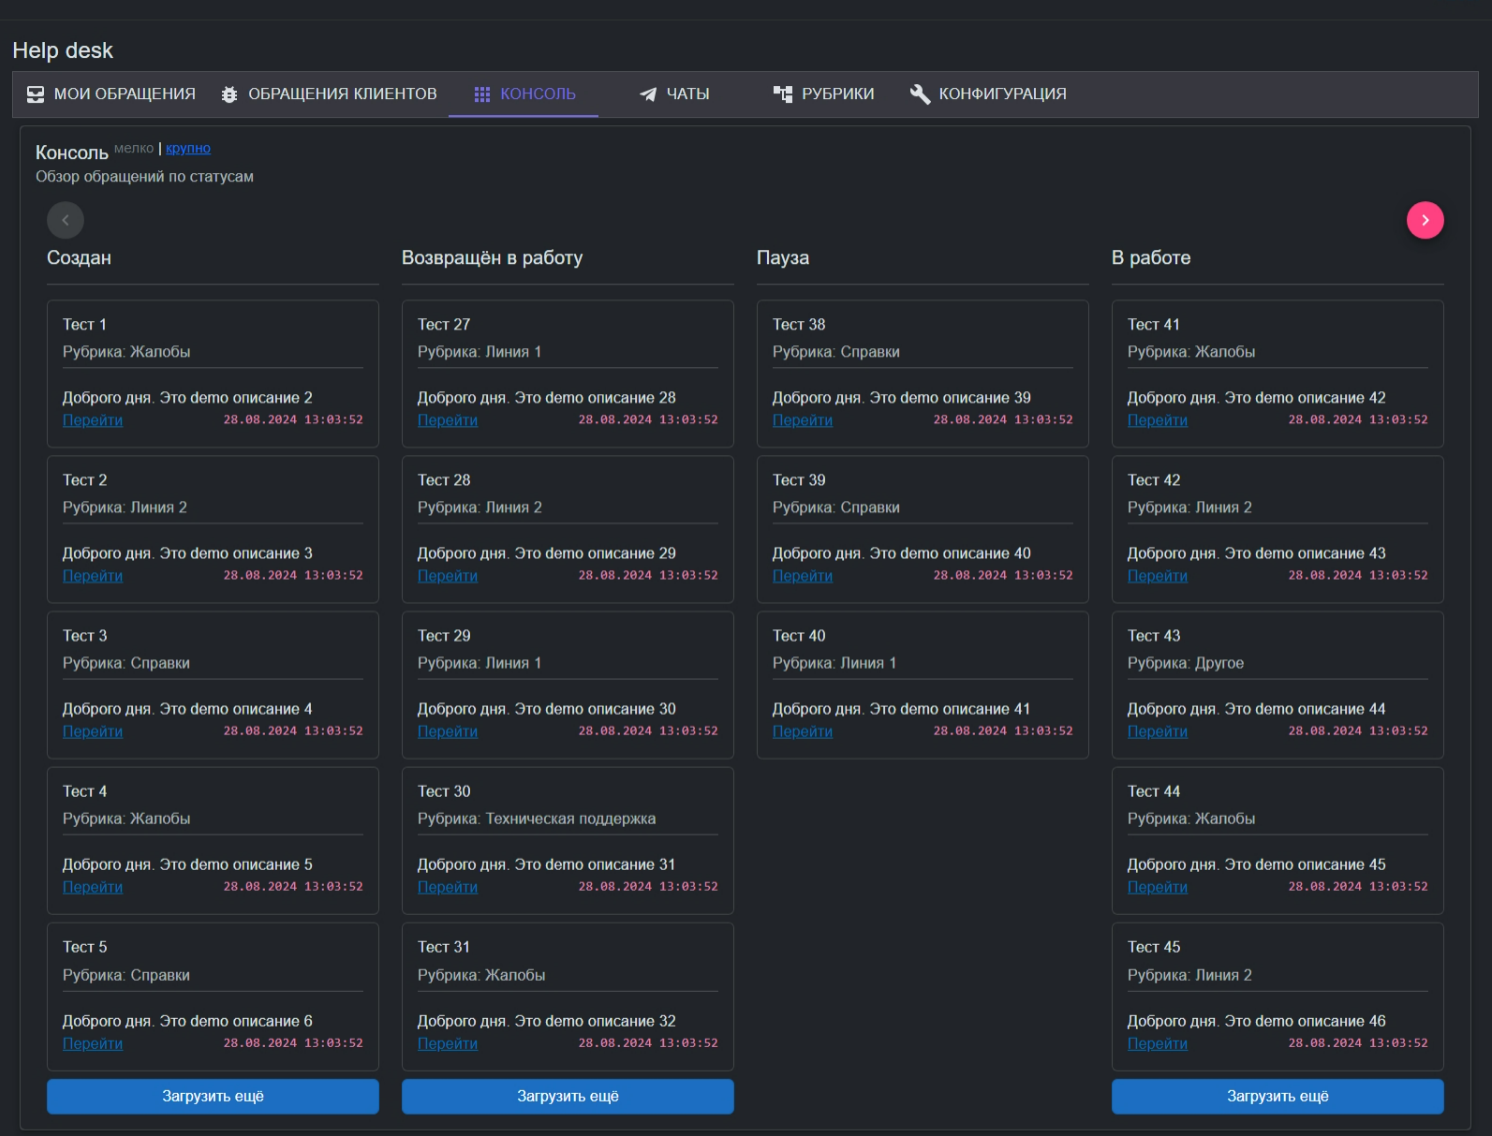
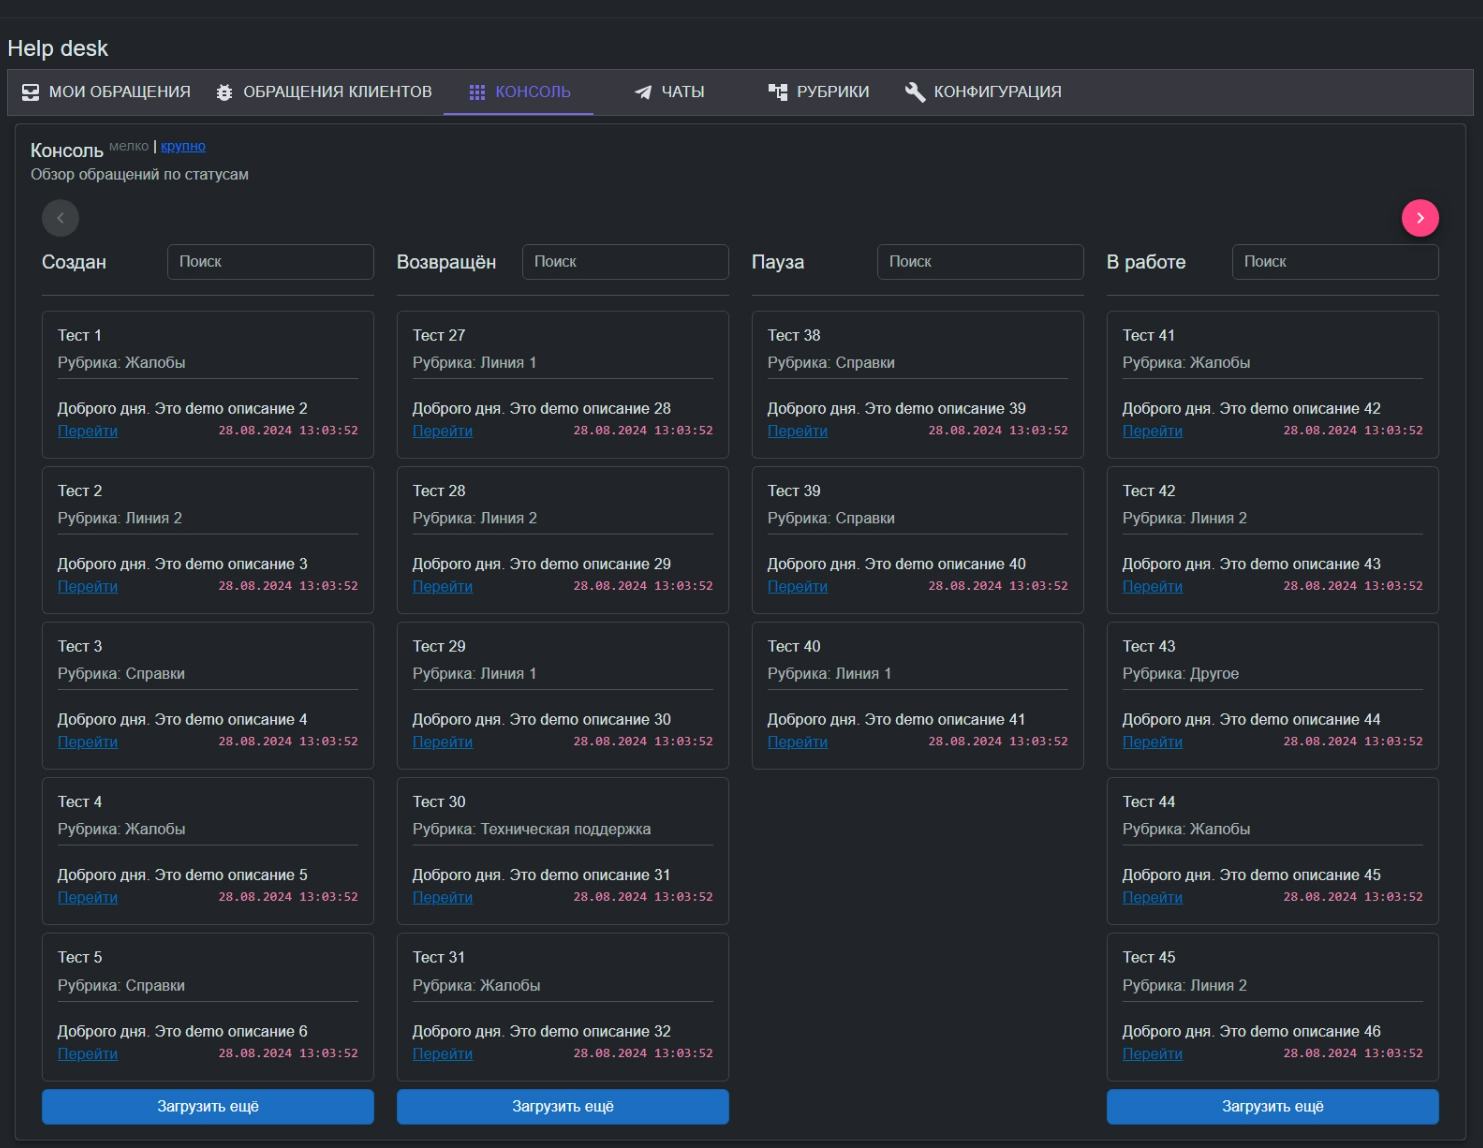
~

diff --git a/BlazorServerLib/Components/Helpdesk/console/ConsoleSegmentColumnComponent.razor.cs b/BlazorServerLib/Components/Helpdesk/console/ConsoleSegmentColumnComponent.razor.cs
@@ -1,0 +1,83 @@
+////////////////////////////////////////////////
+// © https://github.com/badhitman - @FakeGov 
+////////////////////////////////////////////////
+
+using Microsoft.AspNetCore.Components;
+using BlazorLib;
+using MudBlazor;
+using SharedLib;
+
+namespace BlazorWebLib.Components.Helpdesk.console;
+
+public partial class ConsoleSegmentColumnComponent : BlazorBusyComponentBaseModel
+{
+    [Inject]
+    IHelpdeskRemoteTransmissionService helpdeskRepo { get; set; } = default!;
+
+    [Inject]
+    ISnackbar SnackbarRepo { get; set; } = default!;
+
+
+    /// <summary>
+    /// StepIssue
+    /// </summary>
+    [Parameter, EditorRequired]
+    public HelpdeskIssueStepsEnum StepIssue { get; set; }
+
+    /// <summary>
+    /// IsLarge
+    /// </summary>
+    [Parameter, EditorRequired]
+    public bool IsLarge { get; set; }
+
+
+    string? _searchQuery;
+    string? SearchQuery
+    {
+        get => _searchQuery;
+        set
+        {
+            _searchQuery = value;
+            InvokeAsync(LoadData);
+        }
+    }
+
+    static MarkupString MyMarkup(string descr_issue) =>
+        new(descr_issue);
+
+    readonly List<IssueHelpdeskModel> Issues = [];
+    int totalCount;
+    int pageNum = 0;
+
+    async Task LoadData()
+    {
+        IsBusyProgress = true;
+        TResponseModel<TPaginationResponseModel<IssueHelpdeskModel>?> res = await helpdeskRepo.ConsoleIssuesSelect(new TPaginationRequestModel<ConsoleIssuesRequestModel>
+        {
+            PageNum = pageNum,
+            PageSize = 5,
+            SortingDirection = VerticalDirectionsEnum.Down,
+            Payload = new()
+            {
+                Status = StepIssue,
+                SearchQuery = _searchQuery,
+            }
+        });
+
+        IsBusyProgress = false;
+        SnackbarRepo.ShowMessagesResponse(res.Messages);
+
+        if (res.Response?.Response is not null && res.Response.Response.Count != 0)
+        {
+            totalCount = res.Response.TotalRowsCount;
+            Issues.AddRange(res.Response.Response);
+            pageNum++;
+        }
+    }
+
+    /// <inheritdoc/>
+    protected override async Task OnInitializedAsync()
+    {
+        await LoadData();
+    }
+}

diff --git a/HelpdeskService/Services/Receives/issues/ConsoleIssuesSelectReceive.cs b/HelpdeskService/Services/Receives/issues/ConsoleIssuesSelectReceive.cs
@@ -47,7 +47,12 @@ public class ConsoleIssuesSelectReceive(IDbContextFactory<HelpdeskContext> helpd
         if (!string.IsNullOrWhiteSpace(req.Payload.SearchQuery))
         {
             req.Payload.SearchQuery = req.Payload.SearchQuery.ToUpper();
-            q = q.Where(x => x.NormalizedNameUpper!.Contains(req.Payload.SearchQuery));
+            //q = q.Where(x => x.NormalizedNameUpper!.Contains(req.Payload.SearchQuery));
+            q = from issue_element in q
+                join rubric_element in context.RubricsForIssues on issue_element.RubricIssueId equals rubric_element.Id into outer_rubric
+                from rubric_item in outer_rubric.DefaultIfEmpty()
+                where issue_element.NormalizedNameUpper!.Contains(req.Payload.SearchQuery) || issue_element.NormalizedDescriptionUpper!.Contains(req.Payload.SearchQuery) || rubric_item.NormalizedNameUpper!.Contains(req.Payload.SearchQuery)
+                select issue_element;
         }
 
         res.Response.TotalRowsCount = await q.CountAsync();

diff --git a/BlazorServerLib/Components/Telegram/ChatSelectComponent.razor.cs b/BlazorServerLib/Components/Telegram/ChatSelectComponent.razor.cs
@@ -7,7 +7,7 @@ using BlazorLib;
 using MudBlazor;
 using SharedLib;
 
-namespace BlazorWebLib.Components.Helpdesk;
+namespace BlazorWebLib.Components.Telegram;
 
 /// <summary>
 /// Выбор Telegram чата для глобальной переадресации клиентов, которым не обнаружена подписка среди сотрудников
@@ -50,6 +50,12 @@ public partial class ChatSelectComponent : BlazorBusyComponentBaseModel
     /// </summary>
     [Parameter]
     public string? Subtitle { get; set; }
+
+    /// <summary>
+    /// Hint
+    /// </summary>
+    [Parameter]
+    public string? Hint { get; set; }
 
     /// <summary>
     /// Выбор чата

diff --git a/SharedLib/Enum/HelpdeskIssueStepsEnum.cs b/SharedLib/Enum/HelpdeskIssueStepsEnum.cs
@@ -20,7 +20,7 @@ public enum HelpdeskIssueStepsEnum
     /// <summary>
     /// Возвращён в работу
     /// </summary>
-    [Description("Возвращён в работу")]
+    [Description("Возвращён")]
     Reopen = 20,
 
     /// <summary>
@@ -38,7 +38,7 @@ public enum HelpdeskIssueStepsEnum
     /// <summary>
     /// На проверке
     /// </summary>
-    [Description("На проверке")]
+    [Description("Проверка")]
     Check = 50,
 
     /// <summary>

diff --git a/SharedLib/Models/helpdesk/IssueHelpdeskModel.cs b/SharedLib/Models/helpdesk/IssueHelpdeskModel.cs
@@ -19,6 +19,9 @@ public class IssueHelpdeskModel : EntryDescriptionModel
     /// </summary>
     public required string AuthorIdentityUserId { get; set; }
 
+    /// <inheritdoc/>
+    public string? NormalizedDescriptionUpper { get; set; }
+
     /// <summary>
     /// Исполнитель
     /// </summary>
